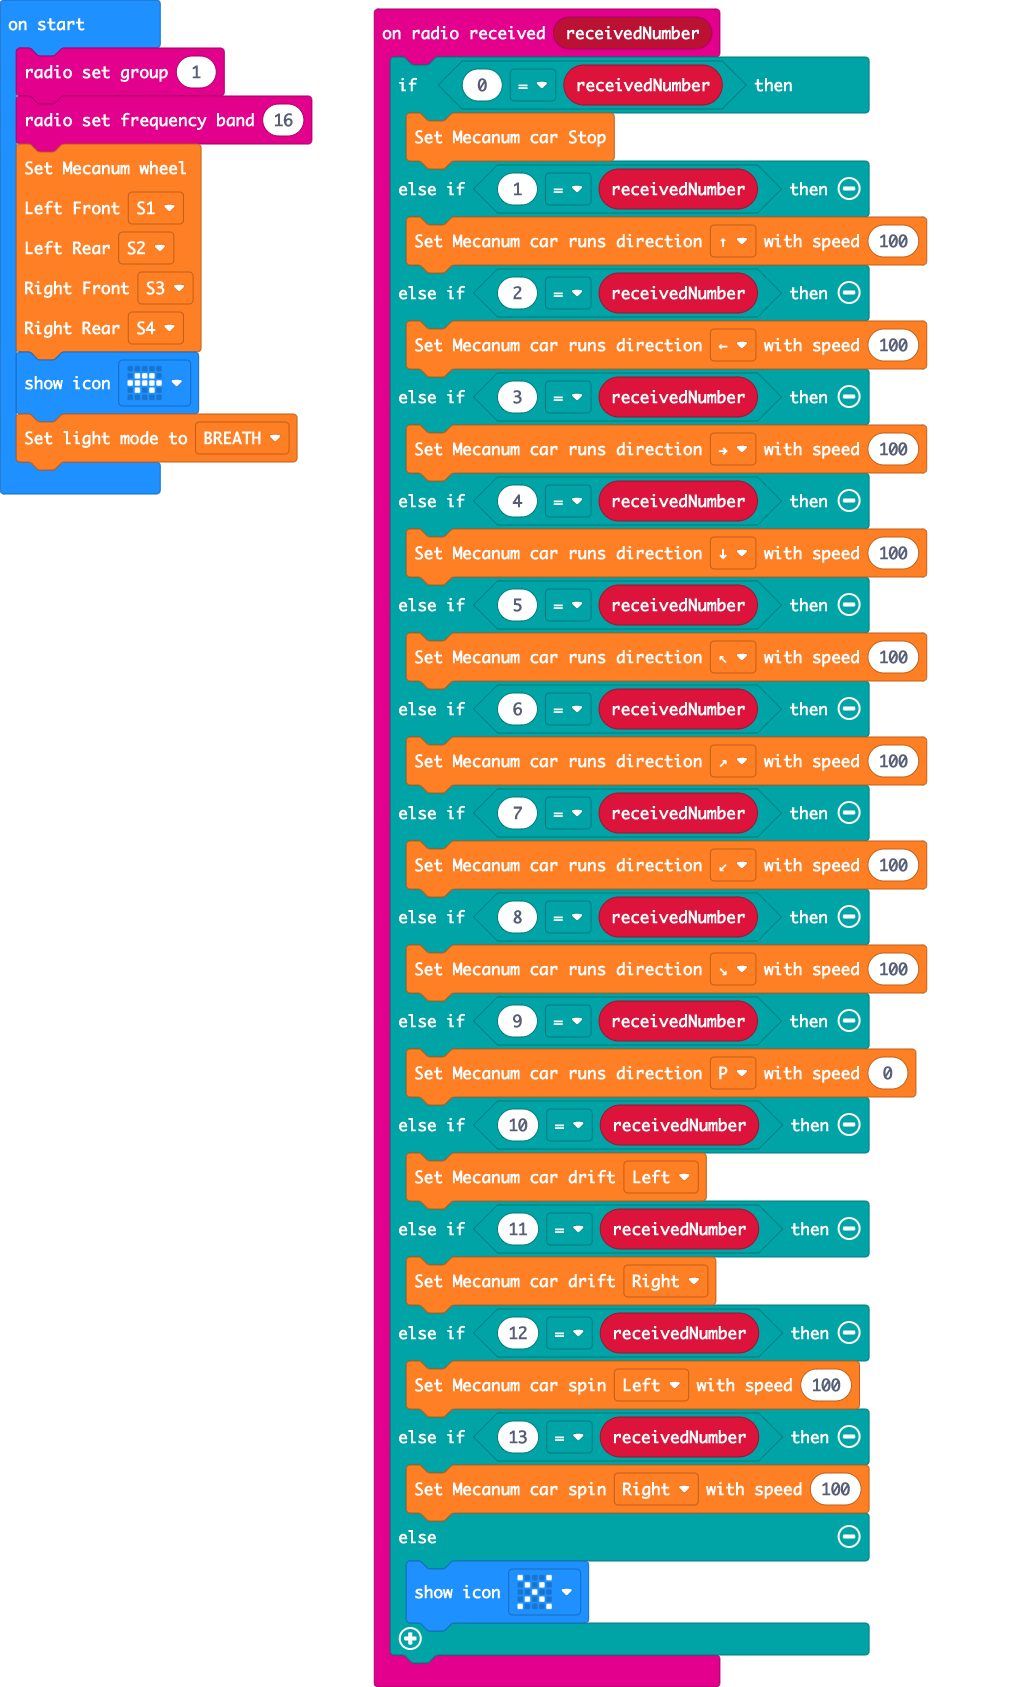
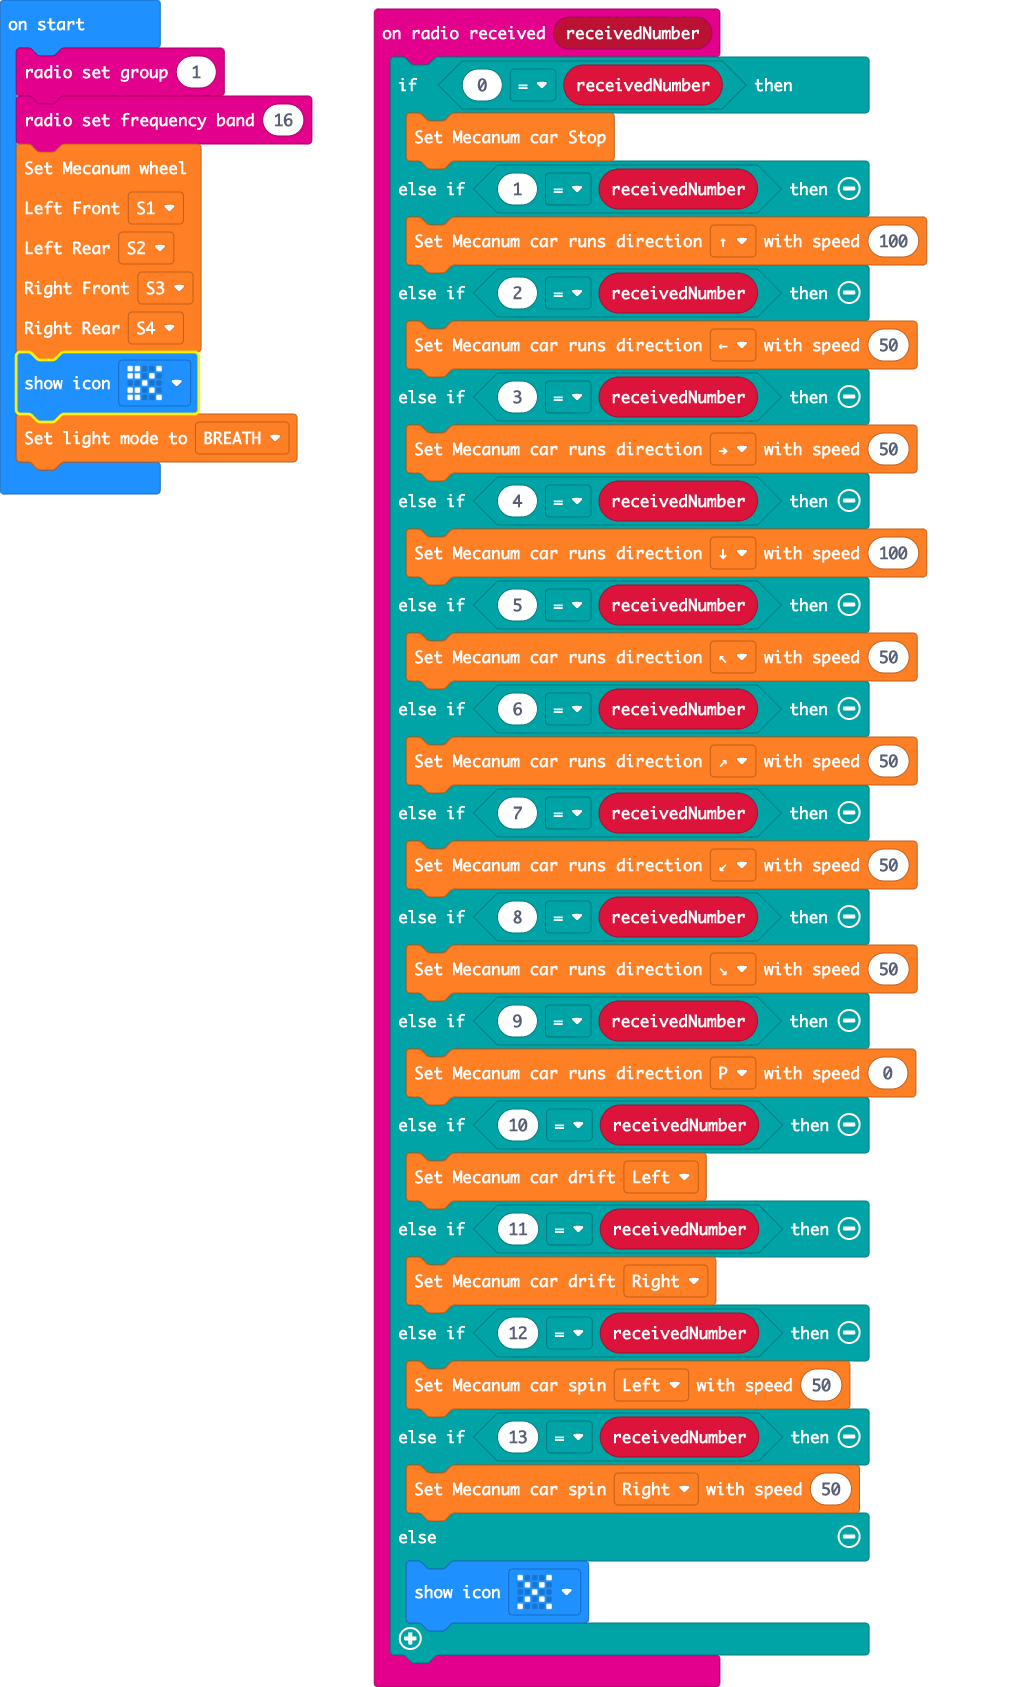
speed testing 100.50

diff --git a/main.ts b/main.ts
@@ -4,19 +4,19 @@ radio.onReceivedNumber(function (receivedNumber) {
     } else if (1 == receivedNumber) {
         wuKong.mecanumRun(wuKong.RunList.Front, 100)
     } else if (2 == receivedNumber) {
-        wuKong.mecanumRun(wuKong.RunList.left, 100)
+        wuKong.mecanumRun(wuKong.RunList.left, 50)
     } else if (3 == receivedNumber) {
-        wuKong.mecanumRun(wuKong.RunList.right, 100)
+        wuKong.mecanumRun(wuKong.RunList.right, 50)
     } else if (4 == receivedNumber) {
         wuKong.mecanumRun(wuKong.RunList.rear, 100)
     } else if (5 == receivedNumber) {
-        wuKong.mecanumRun(wuKong.RunList.LeftFront, 100)
+        wuKong.mecanumRun(wuKong.RunList.LeftFront, 50)
     } else if (6 == receivedNumber) {
-        wuKong.mecanumRun(wuKong.RunList.RightFront, 100)
+        wuKong.mecanumRun(wuKong.RunList.RightFront, 50)
     } else if (7 == receivedNumber) {
-        wuKong.mecanumRun(wuKong.RunList.LeftRear, 100)
+        wuKong.mecanumRun(wuKong.RunList.LeftRear, 50)
     } else if (8 == receivedNumber) {
-        wuKong.mecanumRun(wuKong.RunList.RightRear, 100)
+        wuKong.mecanumRun(wuKong.RunList.RightRear, 50)
     } else if (9 == receivedNumber) {
         wuKong.mecanumRun(wuKong.RunList.stop, 0)
     } else if (10 == receivedNumber) {
@@ -24,9 +24,9 @@ radio.onReceivedNumber(function (receivedNumber) {
     } else if (11 == receivedNumber) {
         wuKong.mecanumDrift(wuKong.TurnList.Right)
     } else if (12 == receivedNumber) {
-        wuKong.mecanumSpin(wuKong.TurnList.Left, 100)
+        wuKong.mecanumSpin(wuKong.TurnList.Left, 50)
     } else if (13 == receivedNumber) {
-        wuKong.mecanumSpin(wuKong.TurnList.Right, 100)
+        wuKong.mecanumSpin(wuKong.TurnList.Right, 50)
     } else {
         basic.showIcon(IconNames.No)
     }
@@ -39,5 +39,5 @@ wuKong.ServoList.S2,
 wuKong.ServoList.S3,
 wuKong.ServoList.S4
 )
-basic.showIcon(IconNames.Tortoise)
+basic.showIcon(IconNames.Scissors)
 wuKong.setLightMode(wuKong.LightMode.BREATH)
